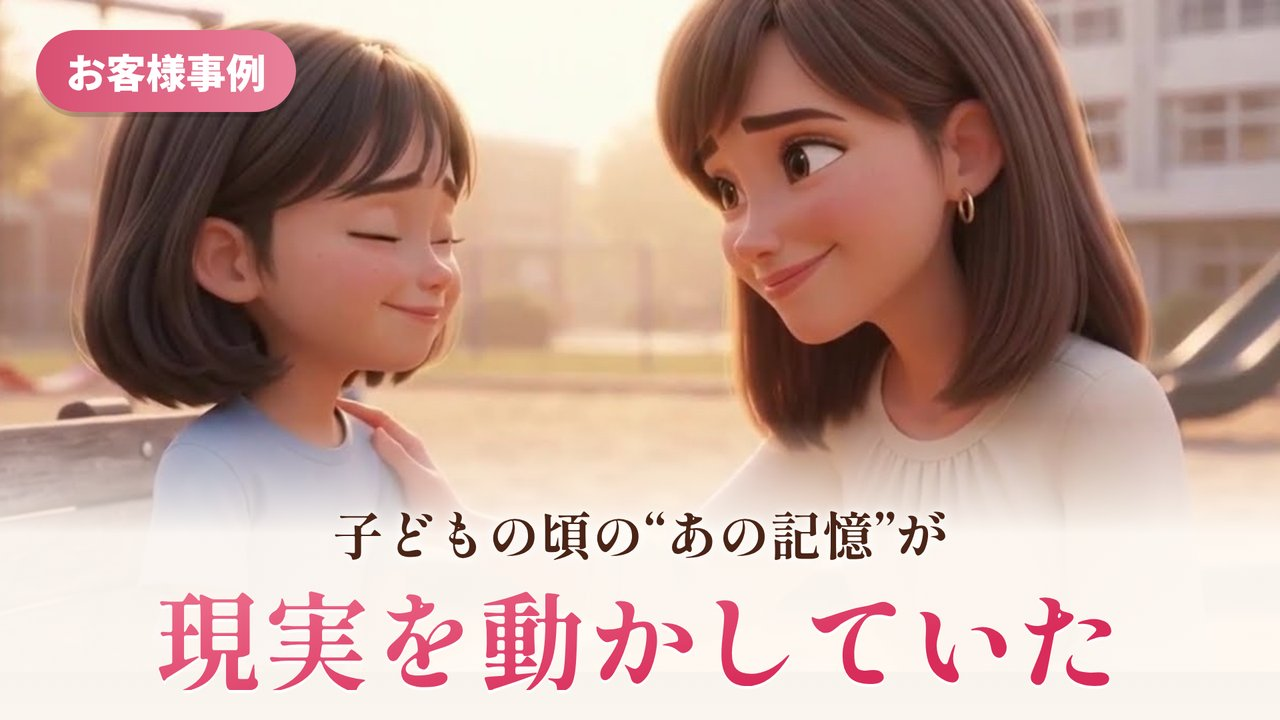
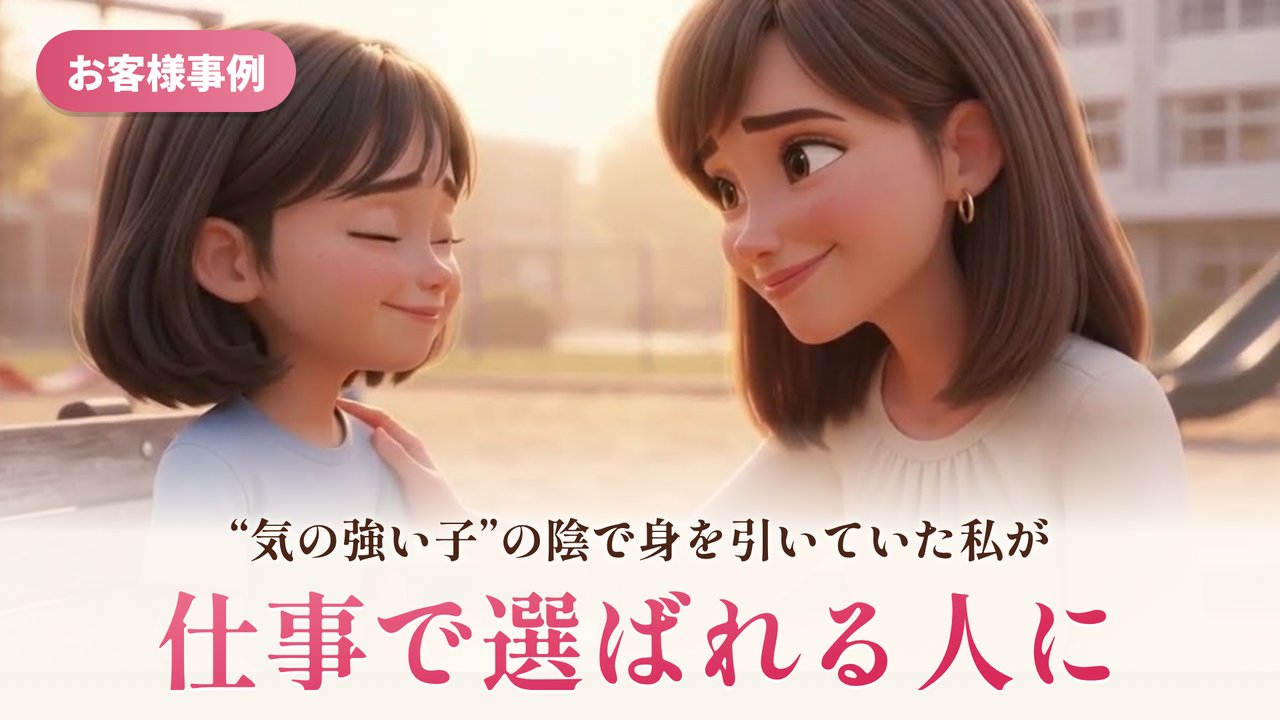
お客様事例①のタイトル・サムネイル・説明文を事例の内容に合わせて変更
Claude-Session: https://claude.ai/code/session_01BjLkNFpZQDyYeC2jtPT9mX

Changed region(s): [[0.125, 0.825, 0.875, 0.9778], [0.1875, 0.7028, 0.8125, 0.7944]]

diff --git a/index.html b/index.html
@@ -232,9 +232,9 @@ footer{text-align:center;color:var(--muted);font-size:.8rem;padding:28px 16px}
    url が入っている動画には、古い順に #01, #02 … の番号が自動で付きます（新しい動画はリストの一番上に追加）。
    ========================================================= */
 const ITEMS = [
-  { title:"お客様事例① 子どもの頃の“あの記憶”が、現実を動かしていた",
+  { title:"“気の強い子”の陰で身を引いていた私が、仕事で選ばれる人に変わった理由【お客様事例】",
     category:"お客様事例", type:"動画", duration:"", added:"2026-11-28",
-    desc:"実際にセッションを受けてくださったお客様の事例を、アニメーションでご紹介します。\n\n子どもの頃の体験から生まれた心の奥の思い込みが、大人になった今の現実にどのように表れていたのか。\nそして、深層意識が書き換わることで、現実がどう動き出したのかを紐解きます。\n\n※ご本人の許可をいただき、個人が特定されないよう一部を変えてお伝えしています。\n※実際にお渡しした修正文に近い内容を、短縮してご紹介しています。",
+    desc:"人のために一生懸命尽くしているのに、なぜか「都合よく使われている」と虚しくなる。\nお客さまに「お金がない」と言われると、すぐに提案を引っ込めてしまう。\n本当は発信したいのに、「私なんかが言っていいのかな」と遠慮してしまう…。\n\nそんな悩みを抱え、専門職として独立を準備していた女性の事例です。\n\nセッションでたどり着いたのは、小学校高学年の校庭の記憶。\n本当はやりたくない遊びでも、気の強いリーダー格の女の子に逆らえず付き合っていたこと。\n誘いを断った翌日に、靴を隠されたこと。\nそのとき心に刻まれたのは、\n**「自分は格下。強い人に従っていないと価値がない」「断ると攻撃される」**という思い込みでした。\n\nこの思い込みが、大人になった今も、仕事の場で「相似形」になって動いていたのです。\n\nこの動画では、\n子どもの頃の生存戦略が、価格の提案やリーダーシップ、発信にどう表れていたのか、\nそして深層意識が書き換わったことで、仕事の現実がどう動き出したのかを、アニメーションでご紹介します。\n\n※ご本人の許可をいただき、個人が特定されないよう一部を変えてお伝えしています。\n※実際にお渡しした修正文に近い内容を、短縮してご紹介しています。",
     url:"https://youtu.be/04onE87CwEY", thumb:"images/thumb-jirei01.jpg" },
   { title:"なぜ同じ悩みをくり返すのか？ 今の現実は、過去の思考回路と「相似形」で動いている",
     category:"心理学", type:"動画", duration:"", added:"2026-11-27",
